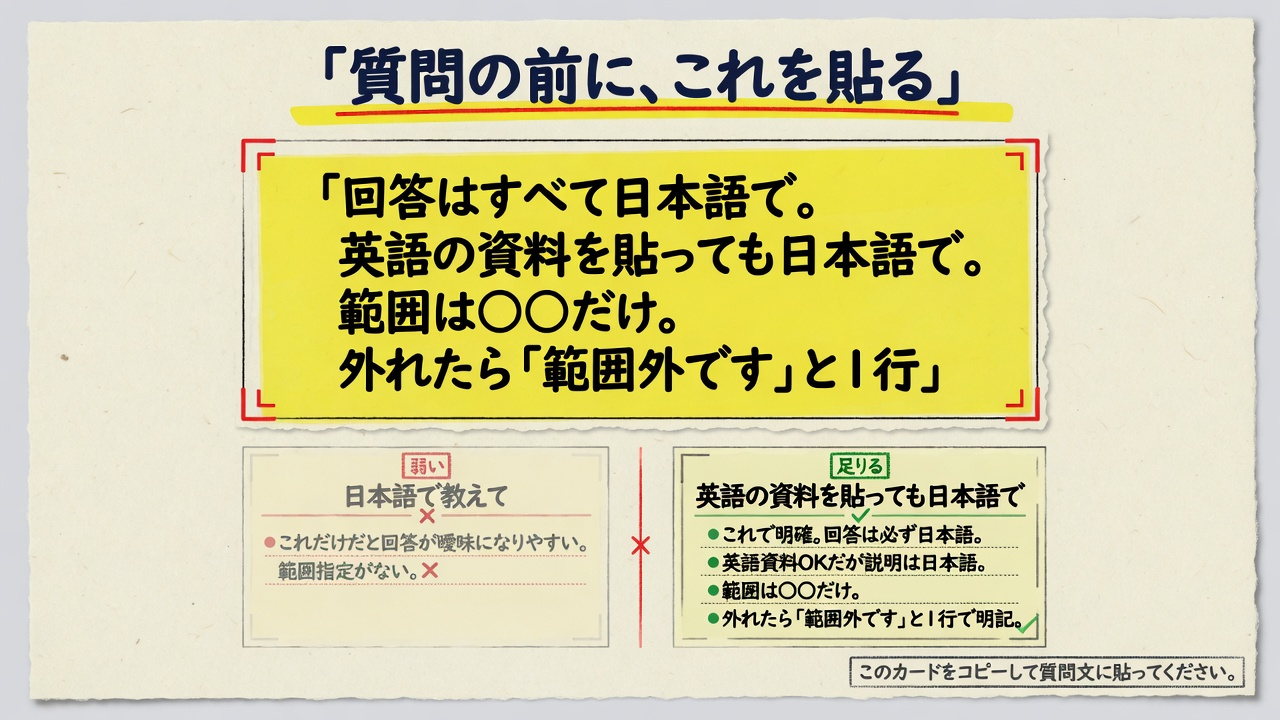
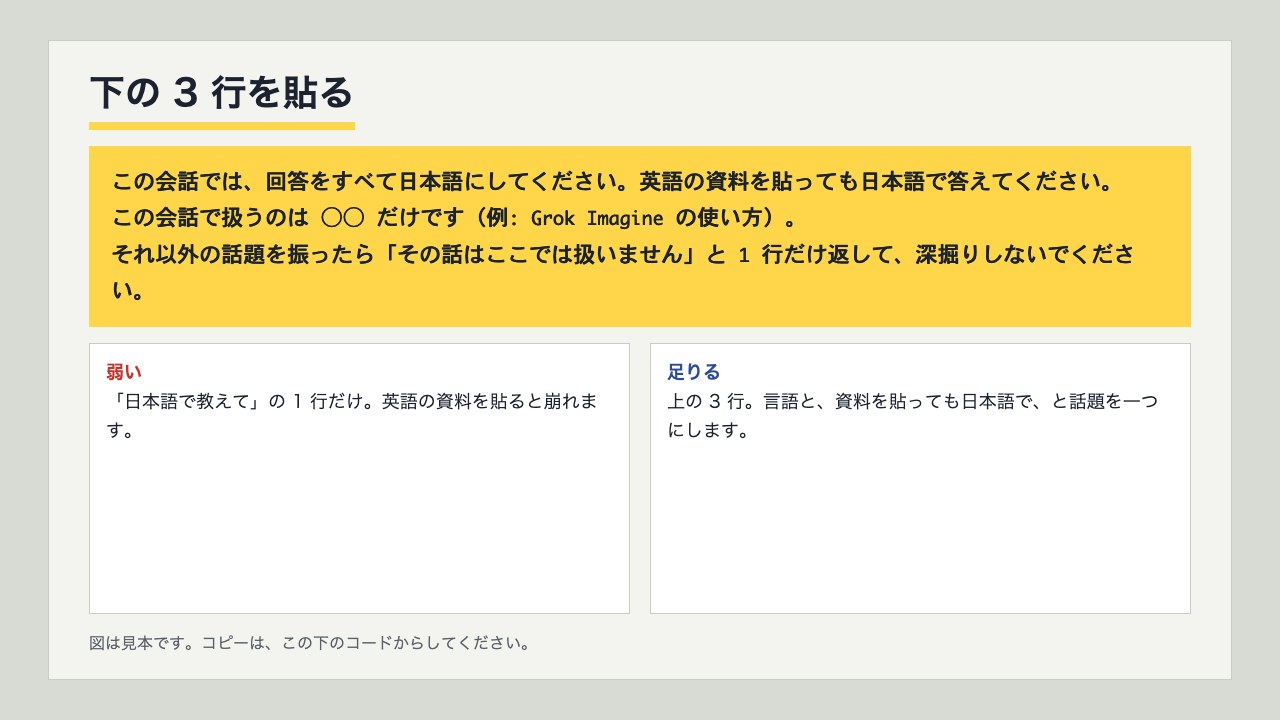
Fix the EPIC 11 UI issues that still held on main
Cache hashed /_astro assets, darken the verified date, keep
breadcrumbs on one line, add a TOC and copy buttons, show
staleness at view time, and serve lighter figures with a zoom
link. TIPS 01 paste lines now match the figure.

diff --git a/src/styles/base.css b/src/styles/base.css
@@ -49,6 +49,7 @@ code, kbd, pre, time, .mono, .num { font-family: var(--font-mono); font-weight: 
 .num { font-size: 0.95em; letter-spacing: 0; }
 code { font-size: 0.92em; background: var(--marker-35); padding: 0.05em 0.3em; border-radius: 2px; }
 pre {
+  position: relative;
   font-size: 0.9rem;
   line-height: 1.6;
   border: 1px solid var(--rule);
@@ -57,6 +58,23 @@ pre {
   white-space: pre-wrap;
   word-break: break-word;
 }
+.copy-btn {
+  position: absolute;
+  top: 0.5rem;
+  right: 0.5rem;
+  height: 36px;
+  padding: 0 12px;
+  border: 1px solid var(--rule);
+  border-radius: 2px;
+  background: var(--paper);
+  color: var(--ink);
+  font: inherit;
+  font-size: 0.85rem;
+  font-weight: 700;
+  cursor: pointer;
+}
+.copy-btn:hover { background: var(--marker-35); }
+pre:has(.copy-btn) { padding-top: 3rem; }
 pre code { background: none; padding: 0; }
 mark { background: var(--marker); color: var(--ink); padding: 0 0.15em; }
 hr { border: 0; border-top: 1px solid var(--rule); margin: var(--section) 0; }
@@ -192,11 +210,12 @@ main { flex: 1; padding-bottom: var(--section); }
 /* card header (meta line) */
 .card-head { font-family: var(--font-mono); font-size: 14px; color: var(--ink-60); margin: var(--section) 0 0.5rem; display: flex; flex-wrap: wrap; gap: 0.5rem 0.75rem; align-items: center; }
 .tag { color: var(--indigo); border: 1px solid var(--indigo); border-radius: 2px; padding: 0 0.4rem; font-size: 0.8rem; line-height: 1.5; }
-.card-head time { background: var(--marker-35); padding: 0 0.25rem; }
+.card-head time { background: var(--marker-35); padding: 0 0.25rem; color: var(--ink); }
 .lead { font-size: 1.05em; line-height: 1.75; margin: 0.75rem 0 0; overflow-wrap: break-word; }
 .lead + * { margin-top: 1.5rem; }
 
 .article-hero { margin: 1.25rem 0 0; }
+.article-hero a { display: block; }
 .article-hero img,
 .article-hero video {
   display: block;
@@ -411,6 +430,24 @@ main { flex: 1; padding-bottom: var(--section); }
 
 /* stale banner */
 .stale { border: 1px solid var(--stamp); border-left-width: 3px; padding: 0.5rem 0.75rem; margin: 1rem 0; font-size: 0.9rem; }
+.stale[hidden] { display: none; }
+
+.toc {
+  margin: 1.15em 0;
+  border-top: 1px solid var(--rule);
+  border-bottom: 1px solid var(--rule);
+  padding: 0.5rem 0;
+}
+.toc summary {
+  cursor: pointer;
+  font-weight: 700;
+  list-style: none;
+}
+.toc summary::-webkit-details-marker { display: none; }
+.toc summary::before { content: "▸ "; color: var(--indigo); }
+.toc[open] summary::before { content: "▾ "; }
+.toc ol { margin: 0.5rem 0 0; padding-left: 1.4em; }
+.toc li { margin: 0.25em 0; }
 
 /* tips list */
 .tips-list { list-style: none; padding: 0; margin: 1rem 0 0; }
@@ -432,6 +469,13 @@ main { flex: 1; padding-bottom: var(--section); }
 .site-footer p { margin: 0; }
 
 .prev-next { display: flex; justify-content: space-between; gap: 1rem; margin-top: var(--section); font-size: 0.95rem; }
+.prev-next a { display: flex; flex-direction: column; gap: 0.15rem; min-width: 0; text-decoration: none; }
+.prev-next a:hover .prev-next-title { text-decoration: underline; }
+.prev-next-kicker { font-family: var(--font-mono); font-size: 0.8rem; color: var(--ink-60); }
+.prev-next-title { font-weight: 700; }
+@media (max-width: 47.99rem) {
+  .prev-next { flex-direction: column; align-items: stretch; }
+}
 
 .visually-hidden {
   position: absolute;
@@ -445,15 +489,20 @@ main { flex: 1; padding-bottom: var(--section); }
   border: 0;
 }
 
-.breadcrumbs { font-size: 0.85rem; color: var(--ink-60); margin: 1.25rem 0 0; overflow-wrap: break-word; }
-.breadcrumbs ol { list-style: none; padding: 0; margin: 0; display: flex; flex-wrap: wrap; }
-.breadcrumbs li { display: flex; align-items: center; min-width: 0; max-width: 100%; }
-.breadcrumbs li:last-child { flex: 1 1 100%; }
-.breadcrumbs [aria-current="page"] { min-width: 0; overflow-wrap: break-word; }
-.breadcrumbs li + li::before { content: "›"; margin: 0 0.5rem; color: var(--rule); }
-.breadcrumbs a { color: var(--ink-60); text-decoration: none; }
+.breadcrumbs { font-size: 0.85rem; color: var(--ink-60); margin: 1.25rem 0 0; }
+.breadcrumbs ol { list-style: none; padding: 0; margin: 0; display: flex; flex-wrap: nowrap; align-items: center; min-width: 0; }
+.breadcrumbs li { display: flex; align-items: center; min-width: 0; }
+.breadcrumbs li:last-child { flex: 1 1 auto; }
+.breadcrumbs li + li::before { content: "›"; margin: 0 0.5rem; color: var(--rule); flex: none; }
+.breadcrumbs a { color: var(--ink-60); text-decoration: none; flex: none; }
 .breadcrumbs a:hover { color: var(--indigo); text-decoration: underline; }
-.breadcrumbs [aria-current="page"] { color: var(--ink); }
+.breadcrumbs [aria-current="page"] {
+  color: var(--ink);
+  min-width: 0;
+  overflow: hidden;
+  text-overflow: ellipsis;
+  white-space: nowrap;
+}
 
 .related { margin-top: var(--section); border-top: 2px solid var(--rule); padding-top: 1rem; }
 .related h2 { margin-top: 0; border: 0; font-size: 1.05rem; }
@@ -472,8 +521,6 @@ main { flex: 1; padding-bottom: var(--section); }
 }
 
 /* utilities */
-.visually-hidden { position: absolute; width: 1px; height: 1px; margin: -1px; padding: 0; overflow: hidden; clip: rect(0 0 0 0); white-space: nowrap; border: 0; }
-
 /* reactions */
 .reactions { margin-top: 1.5rem; }
 .reaction-bar { display: flex; flex-wrap: wrap; align-items: center; gap: 0.5rem 0.6rem; }
@@ -540,7 +587,7 @@ main { flex: 1; padding-bottom: var(--section); }
   align-items: flex-start;
   gap: 0.75rem 1rem;
 }
-.turnstile { max-width: 100%; }
+.turnstile { max-width: 100%; overflow: hidden; }
 .turnstile:empty { display: none; }
 @media (max-width: 35.99rem) {
   .comment-actions { flex-direction: column; }

diff --git a/src/scripts/widget.ts b/src/scripts/widget.ts
@@ -31,6 +31,10 @@ interface ApiError {
   message?: string;
 }
 
+function turnstileSize(): 'compact' | 'normal' {
+  return window.matchMedia('(max-width: 22.49rem)').matches ? 'compact' : 'normal';
+}
+
 const SLUG_RE = /^[a-z0-9][a-z0-9/-]{0,120}$/;
 const OFFLINE = 'いま反応を受け付けていません';
 const COMMENTS_OFFLINE = 'いまはコメントを受け付けていません。記事はそのまま読めます。';
@@ -241,6 +245,7 @@ async function startReport(li: HTMLLIElement, id: number, button: HTMLButtonElem
       sitekey: ctx.siteKey,
       theme: 'light',
       language: 'ja',
+      size: turnstileSize(),
       callback: async (token: string) => {
         const res = await api<{ reported: boolean; hidden: boolean }>('/api/reports', {
           method: 'POST',
@@ -351,7 +356,7 @@ function setupForm(
   let widgetId: string | null = null;
   if (ctx.turnstile && holder) {
     try {
-      widgetId = ctx.turnstile.render(holder, { sitekey: ctx.siteKey, theme: 'light', language: 'ja' });
+      widgetId = ctx.turnstile.render(holder, { sitekey: ctx.siteKey, theme: 'light', language: 'ja', size: turnstileSize() });
     } catch {
       widgetId = null;
     }

diff --git a/src/scripts/copy.ts b/src/scripts/copy.ts
@@ -1,0 +1,39 @@
+/** 貼るためのコードブロックにコピーボタンを付ける。JS が無いときは何も出さない。 */
+
+function wire(pre: HTMLPreElement): void {
+  const code = pre.querySelector(':scope > code');
+  if (!code || pre.querySelector('.copy-btn')) return;
+
+  const btn = document.createElement('button');
+  btn.type = 'button';
+  btn.className = 'copy-btn';
+  btn.textContent = 'コピー';
+
+  const live = document.createElement('span');
+  live.className = 'visually-hidden';
+  live.setAttribute('aria-live', 'polite');
+
+  const reset = (): void => {
+    btn.textContent = 'コピー';
+    live.textContent = '';
+  };
+
+  btn.addEventListener('click', async () => {
+    const text = code.textContent ?? '';
+    try {
+      await navigator.clipboard.writeText(text);
+      btn.textContent = 'コピーしました';
+      live.textContent = 'コピーしました';
+      window.setTimeout(reset, 2000);
+    } catch {
+      btn.remove();
+      live.remove();
+    }
+  });
+
+  pre.prepend(btn, live);
+}
+
+for (const pre of document.querySelectorAll<HTMLPreElement>('article pre')) {
+  wire(pre);
+}

diff --git a/src/scripts/stale.ts b/src/scripts/stale.ts
@@ -1,0 +1,21 @@
+/** 閲覧時点の日付（Asia/Tokyo）で 60 日超なら古さの表示を出す。 */
+
+export function daysSinceVerified(lastVerified: string, now = Date.now()): number {
+  const start = new Date(`${lastVerified}T00:00:00+09:00`).getTime();
+  if (Number.isNaN(start)) return 0;
+  const tokyo = new Intl.DateTimeFormat('en-CA', {
+    timeZone: 'Asia/Tokyo',
+    year: 'numeric',
+    month: '2-digit',
+    day: '2-digit',
+  }).format(new Date(now));
+  const today = new Date(`${tokyo}T00:00:00+09:00`).getTime();
+  return Math.floor((today - start) / 86400000);
+}
+
+if (typeof document !== 'undefined') {
+  for (const el of document.querySelectorAll<HTMLElement>('[data-last-verified]')) {
+    const day = el.dataset.lastVerified ?? '';
+    if (daysSinceVerified(day) > 60) el.hidden = false;
+  }
+}

diff --git a/src/content/tips/japanese-fix.md b/src/content/tips/japanese-fix.md
@@ -1,6 +1,6 @@
 ---
 title: 英語で返ってきたら、会話の最初に 3 行貼る
-description: Grok が英語で答え始めたら、会話の最初に「全部日本語で答えて。英語の資料を貼っても日本語で」と書いておきます。途中で英語に戻ったら「日本語で続けて」と 1 行送れば足ります。
+description: Grok が英語で答え始めたら、会話の最初に 3 行貼ります。日本語で、英語の資料を貼っても日本語で、話題は一つ。途中で英語に戻ったら「日本語で続けて」と 1 行で足ります。
 order: 1
 product: chat
 last_verified: "2026-09-08"
@@ -13,7 +13,7 @@ related:
   - bot-build-chat-map
 image: /tips/japanese-fix.jpg
 image_alt: 罫線のある紙に、蛍光ペンで 1 行だけ塗ってある。机の上に置かれている
-image_caption: 質問を書く前に、この 3 行を先に貼っておくと、英語に戻りにくくなります。
+image_caption: 下の 3 行を先に貼っておくと、英語に戻りにくくなります。「日本語で教えて」だけでは足りません。
 ---
 
 ## 困ること
